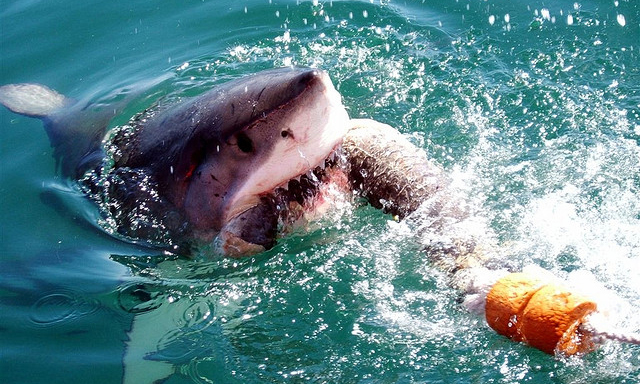
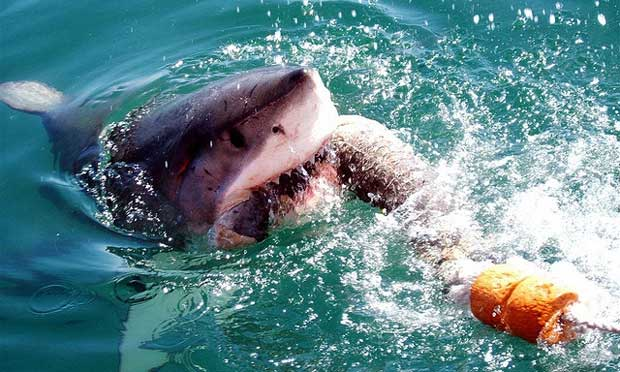
GSW Optimized images

diff --git a/great-white-shark.html b/great-white-shark.html
@@ -3,7 +3,7 @@ layout: default
 --- 
     
     <div class="header-img">
-    	<img src="images/gwh.png" class="flex-img" alt="Great White Shark as header">
+    	<img src="images/gwh.jpg" class="flex-img" alt="Great White Shark as header">
     </div>
     
     <div class="grid">
